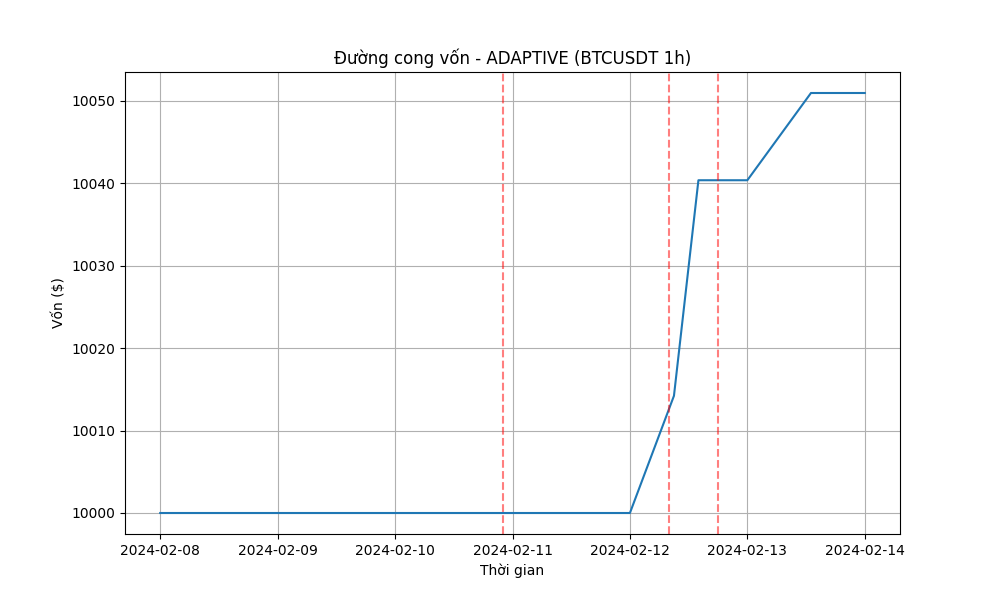
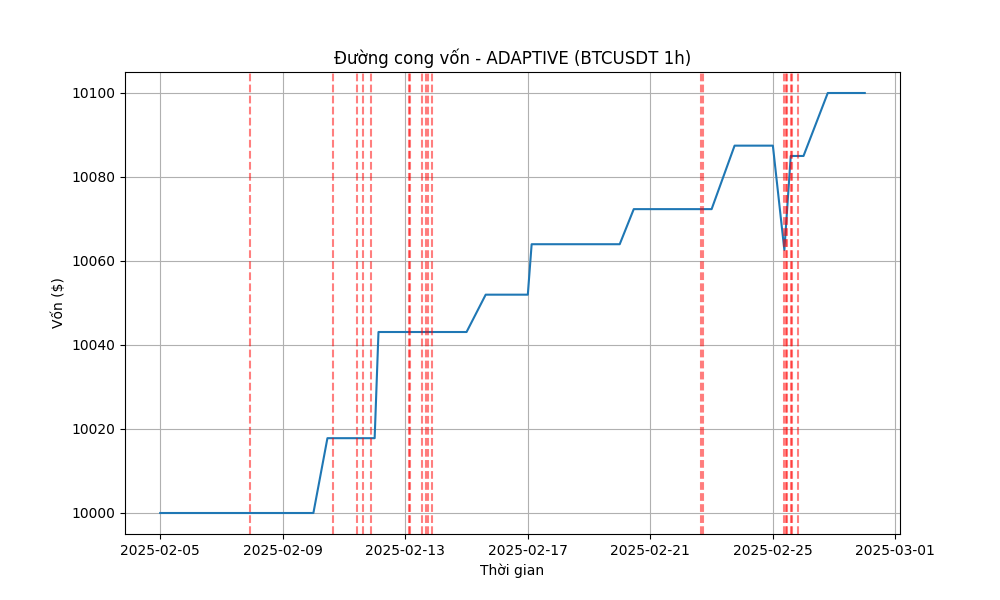
New agent session start
Replit-Commit-Author: Agent
Replit-Commit-Session-Id: 5d64bd3f-88e8-426d-9492-aa704ebfdb4a

diff --git a/run_multi_risk_test.py b/run_multi_risk_test.py
@@ -55,7 +55,9 @@ def load_account_config() -> Dict:
         logger.error(f"Lỗi khi tải account_config.json: {str(e)}")
         return {}
 
-def run_backtest_for_symbol(symbol: str, interval: str = '1h', risk: float = 1.0, adaptive_risk: bool = True) -> Dict:
+def run_backtest_for_symbol(symbol: str, interval: str = '1h', risk: float = 1.0, 
+                         adaptive_risk: bool = True, start_date: str = '2025-02-05', 
+                         end_date: str = '2025-03-01') -> Dict:
     """
     Chạy backtest cho một cặp tiền với mức rủi ro cụ thể
     
@@ -64,6 +66,8 @@ def run_backtest_for_symbol(symbol: str, interval: str = '1h', risk: float = 1.0
         interval (str): Khung thời gian
         risk (float): Mức rủi ro (% vốn)
         adaptive_risk (bool): Sử dụng rủi ro thích ứng hay không
+        start_date (str): Ngày bắt đầu backtest (định dạng YYYY-MM-DD)
+        end_date (str): Ngày kết thúc backtest (định dạng YYYY-MM-DD)
         
     Returns:
         Dict: Kết quả backtest
@@ -80,14 +84,20 @@ def run_backtest_for_symbol(symbol: str, interval: str = '1h', risk: float = 1.0
             "python", "enhanced_backtest.py", 
             "--symbol", symbol, 
             "--interval", interval,
-            "--risk", str(risk)
+            "--risk", str(risk),
+            "--start_date", start_date,
+            "--end_date", end_date
         ]
         
         if adaptive_risk:
             cmd.append("--adaptive_risk")
             
         # Chạy lệnh và lấy output
-        subprocess.run(cmd, check=True)
+        try:
+            subprocess.run(cmd, check=True)
+        except subprocess.CalledProcessError as e:
+            logger.error(f"Lỗi khi chạy backtest cho {symbol} {interval} rủi ro {risk}%: {e}")
+            return None
         
         # Đọc kết quả từ file
         if os.path.exists(result_file):
@@ -438,6 +448,8 @@ def main():
     parser.add_argument('--interval', default='1h', help='Khung thời gian (mặc định: 1h)')
     parser.add_argument('--symbols', nargs='+', help='Danh sách các cặp tiền (mặc định: tất cả)')
     parser.add_argument('--no-adaptive', action='store_true', help='Không sử dụng rủi ro thích ứng')
+    parser.add_argument('--start-date', default='2025-02-05', help='Ngày bắt đầu (định dạng YYYY-MM-DD, mặc định: 2025-02-05)')
+    parser.add_argument('--end-date', default='2025-03-01', help='Ngày kết thúc (định dạng YYYY-MM-DD, mặc định: 2025-03-01)')
     args = parser.parse_args()
     
     # Tải cấu hình
@@ -465,7 +477,9 @@ def main():
                 symbol=symbol,
                 interval=args.interval,
                 risk=risk,
-                adaptive_risk=not args.no_adaptive
+                adaptive_risk=not args.no_adaptive,
+                start_date=args.start_date,
+                end_date=args.end_date
             )
             
             if result:

diff --git a/enhanced_backtest.py b/enhanced_backtest.py
@@ -402,12 +402,22 @@ def load_data(symbol, interval, data_dir='test_data', start_date=None, end_date=
         df.set_index('timestamp', inplace=True)
     
     # Lọc theo khoảng thời gian nếu được chỉ định
+    data_start = df.index.min() if not df.empty else None
+    data_end = df.index.max() if not df.empty else None
+    logger.info(f"Dữ liệu có sẵn từ {data_start} đến {data_end}")
+    
     if start_date:
         start_date = pd.to_datetime(start_date)
+        if not df.empty and df.index.min() > start_date:
+            logger.warning(f"Ngày bắt đầu yêu cầu ({start_date}) sớm hơn dữ liệu có sẵn ({df.index.min()})")
+            logger.info(f"Điều chỉnh ngày bắt đầu thành {df.index.min()}")
         df = df[df.index >= start_date]
         
     if end_date:
         end_date = pd.to_datetime(end_date)
+        if not df.empty and df.index.max() < end_date:
+            logger.warning(f"Ngày kết thúc yêu cầu ({end_date}) muộn hơn dữ liệu có sẵn ({df.index.max()})")
+            logger.info(f"Điều chỉnh ngày kết thúc thành {df.index.max()}")
         df = df[df.index <= end_date]
         
     # Log thông tin dữ liệu
@@ -415,6 +425,10 @@ def load_data(symbol, interval, data_dir='test_data', start_date=None, end_date=
         logger.info(f"Đã tải {len(df)} candles từ {df.index.min()} đến {df.index.max()}")
     else:
         logger.warning(f"Không có dữ liệu nào trong khoảng thời gian chỉ định")
+        # Nếu không có dữ liệu trong khoảng thời gian yêu cầu, sử dụng toàn bộ dữ liệu có sẵn
+        if data_start is not None and data_end is not None:
+            logger.info(f"Sử dụng toàn bộ dữ liệu có sẵn từ {data_start} đến {data_end}")
+            return df
         
     return df
 
